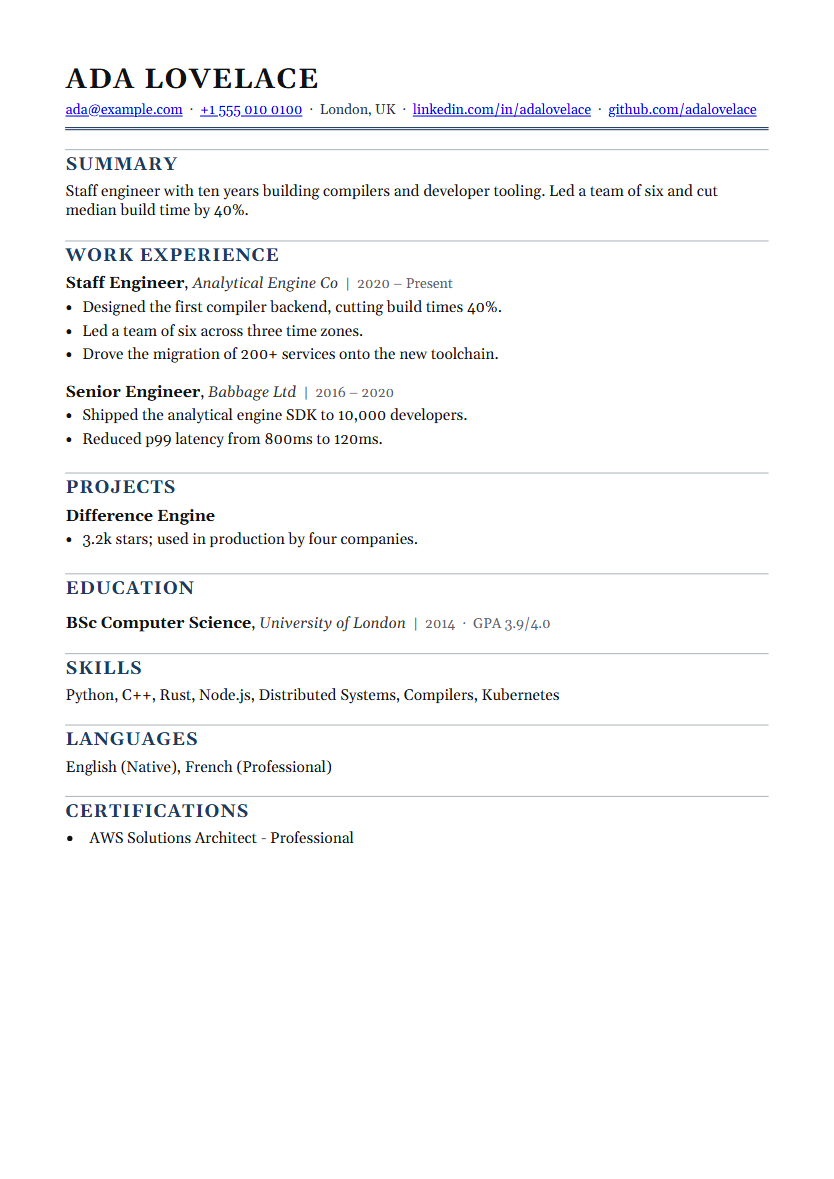
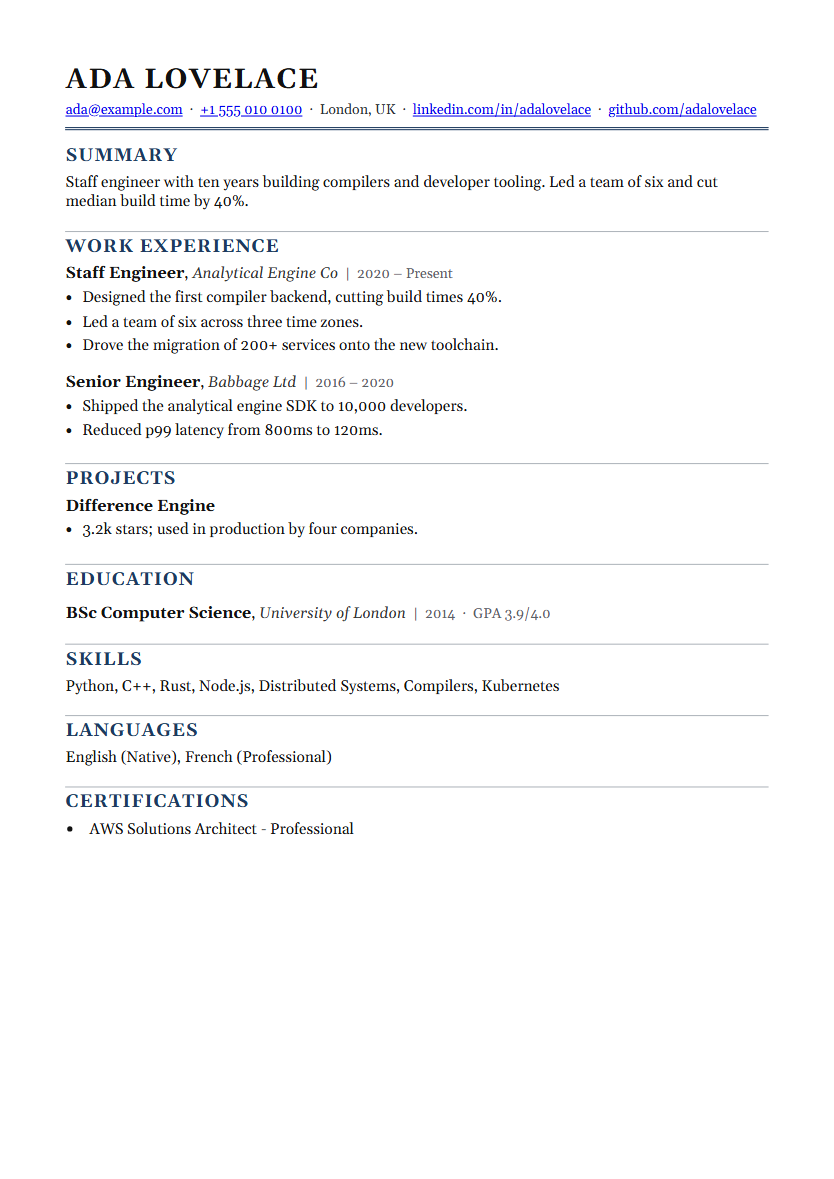
fix(templates): Corporate's first heading sits under the masthead rule alone
Checked the four new templates on the live site (Render renders all four,
both Builder tabs and the Studio gallery list them, the ATS view reads each
cleanly at 390 and 1440). Corporate stacked three lines under the contact
line: the masthead's double rule, then the rule above the first heading.
The first heading after the masthead now has no rule of its own.
Thumbnail rebuilt.

Changed region(s): [[0.0624, 0.1221, 0.8729, 0.7328]]

diff --git a/apps/api/templates/ats_corporate.html b/apps/api/templates/ats_corporate.html
@@ -19,6 +19,8 @@
   h2 { font-size: {{ heading_size(13) }}pt; font-weight: 700; text-transform: uppercase; letter-spacing: 0.05em;
        color: {{ accent_color }}; border-top: 0.75pt solid #b0b6bc;
        margin: {{ section_gap }}px 0 5px; padding-top: 4px; }
+  /* The masthead's double rule already sets off the first section. */
+  .masthead-rule + h2 { border-top: none; padding-top: 0; margin-top: {{ [section_gap - 4, 2]|max }}px; }
   .job-title { font-weight: 700; font-size: {{ body_size(11.5) }}pt; }
   .company { font-style: italic; color: #333; }
   .dates { font-size: {{ body_size(10) }}pt; color: #5a6168; }
